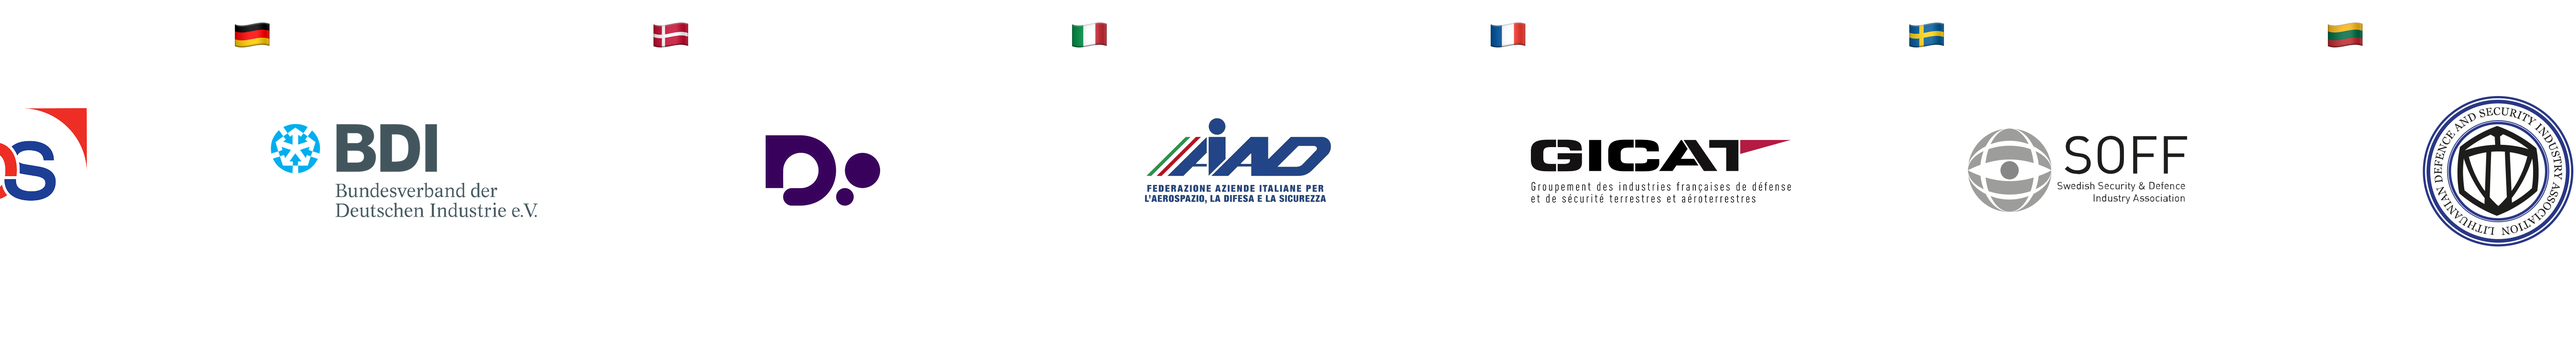
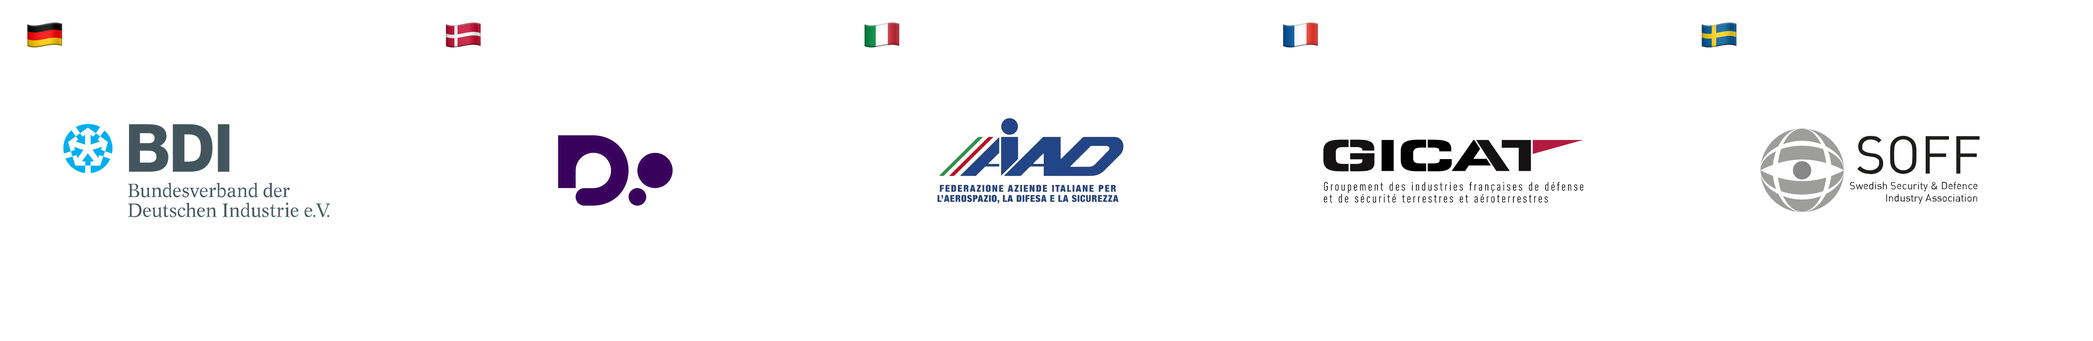
Match activities page background to the design and fix partner strip tiling

diff --git a/src/pages/Office/style.css b/src/pages/Office/style.css
@@ -17,11 +17,11 @@
     ),
     linear-gradient(
       180deg,
-      #060609 0%,
-      #00031c 29.34%,
-      #091127 50%,
-      #00031c 70.66%,
-      #060609 100%
+      #050403 0%,
+      #140b04 29.34%,
+      #24150a 50%,
+      #140b04 70.66%,
+      #050403 100%
     );
   background-size:
     100% clamp(180px, 22vw, 300px),
@@ -45,17 +45,18 @@
   align-items: center;
   justify-content: flex-start;
   padding: 78px 48px 76px;
-  background-image:
-    linear-gradient(
-      180deg,
-      rgba(0, 0, 0, 0.48) 0%,
-      rgba(0, 0, 0, 0.28) 42%,
-      rgba(0, 0, 0, 0.88) 100%
-    ),
-    url("../../assets/bg1.svg");
-  background-size: cover;
-  background-position: center top;
-  background-repeat: no-repeat;
+  /*
+   * Хедер більше не малює власну копію bg1.svg: вона масштабувалась
+   * через cover на блок висотою 620px і не збігалася з фоном сторінки,
+   * тому на нижньому краї лишався перепад. Тепер тут лише легке
+   * затемнення, а градієнт несе сторінка.
+   */
+  background-image: linear-gradient(
+    180deg,
+    rgba(0, 0, 0, 0.42) 0%,
+    rgba(0, 0, 0, 0.16) 46%,
+    rgba(0, 0, 0, 0) 100%
+  );
 }
 
 .office-hero::before {
@@ -482,4 +483,37 @@
 
 .office-page .clock__backdrop {
   background-color: transparent;
+}
+
+/*
+ * Тепле світло на стику хедера й контенту.
+ *
+ * У Figma перехід згладжує не градієнт секції, а окремий еліпс 1105×665
+ * (x 168, y 606) із заливкою Linear помаранчевим на 10% і сильним Layer blur —
+ * він лежить поверх фону й перекриває межу, тому шва там просто немає.
+ * Експорт із Figma розтягнутий на 63.76% по висоті й 38.37% по ширині
+ * від власних розмірів — це і є радіус розмиття, ≈420px.
+ */
+.office-page::before {
+  content: "";
+  position: absolute;
+  top: 606px;
+  left: 50%;
+  z-index: 2;
+  width: min(1105px, 78vw);
+  height: 665px;
+  transform: translateX(-50%);
+  border-radius: 50%;
+  background: linear-gradient(180deg, #ff7a1a 0%, #a34a15 100%);
+  opacity: 0.1;
+  filter: blur(210px);
+  pointer-events: none;
+}
+
+@media (max-width: 1024px) {
+  .office-page::before {
+    top: 420px;
+    height: 460px;
+    filter: blur(150px);
+  }
 }
